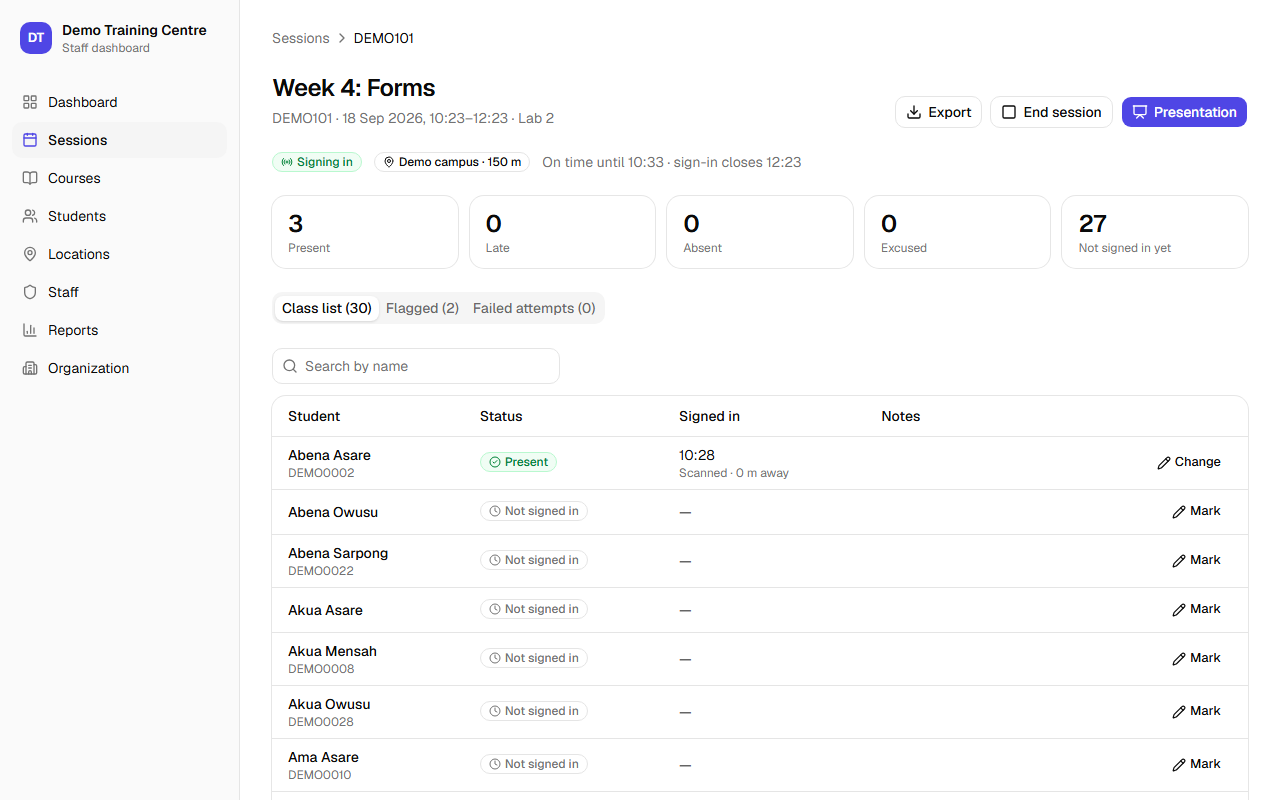
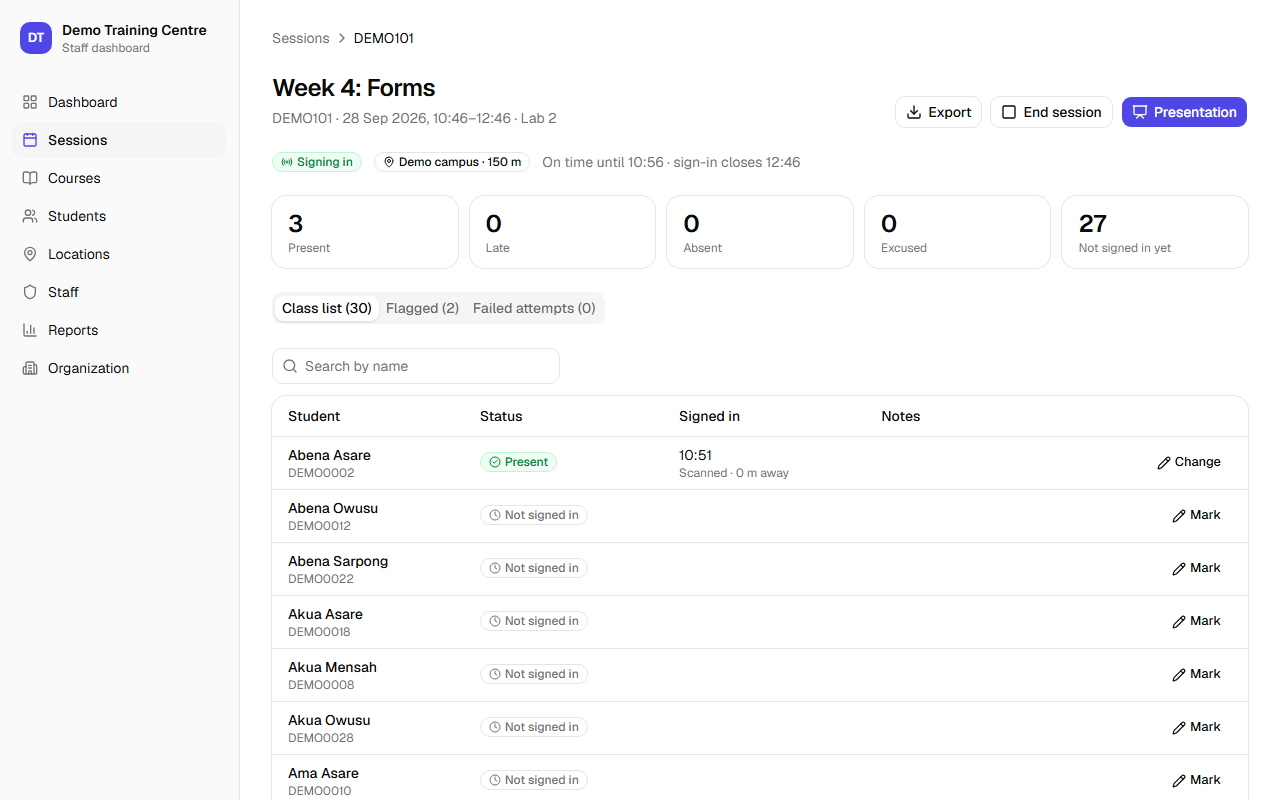
Show version 1.1 in the screenshots and the README
Six screenshots are retaken from the demo data: students now sign in with their student ID, and staff pages show every student's ID. The README describes signing in the same way, and gives today's test counts.

diff --git a/README.md b/README.md
@@ -2,9 +2,9 @@
 
 **Attendance for schools and training centres, taken with a QR code and the students' own phones.**
 
-A lecturer puts a QR code on the projector. Students scan it with their phone's camera, find their name and tap it, and they're marked present or late. A sign-in only counts from inside the class location, during the class, once per student and once per phone. No app to install and no student accounts.
+A lecturer puts a QR code on the projector. Students scan it with their phone's camera, type their student ID, check it's their name, and they're marked present or late. A sign-in only counts from inside the class location, during the class, once per student and once per phone. No app to install and no student accounts.
 
-I designed and built QR Attend end to end: requirements, design, backend, frontend, tests, packaging and documentation. Version 1.0 was released in September 2026. The source code is private. This repository shows what the product does and how it's built.
+I designed and built QR Attend end to end: requirements, design, backend, frontend, tests, packaging and documentation. Version 1.0 was released in September 2026, and version 1.1 followed the same month with changes from a pilot. The source code is private. This repository shows what the product does and how it's built.
 
 ![The staff dashboard](images/dashboard.png)
 
@@ -12,9 +12,9 @@ I designed and built QR Attend end to end: requirements, design, backend, fronte
 
 | In class | On a student's phone |
 |---|---|
-| ![The presentation screen, with the changing QR code, the 6-digit backup code and the latest sign-ins](images/presentation.png) | ![Finding your name](images/sign-in-phone.png) ![Signed in](images/signed-in-phone.png) |
+| ![The presentation screen, with the changing QR code, the 6-digit backup code and the latest sign-ins](images/presentation.png) | ![Checking a student ID on the sign-in page](images/sign-in-phone.png) ![Signed in](images/signed-in-phone.png) |
 
-- **For students:** scan, allow location, tap your name. A returning phone offers your name straight away. There's a 6-digit code for phones that can't scan, and clear screens explaining every refusal.
+- **For students:** scan, allow location, type your student ID and check the name that comes back. A returning phone offers your name straight away. There's a 6-digit code for phones that can't scan, and clear screens explaining every refusal.
 - **For lecturers:** courses and class lists imported from Excel, sessions with a location and a sign-in window, a full-screen presentation mode, and a review of anything suspicious after class.
 - **For admins:** staff and roles, locations on a map, reports with CSV and Excel export, organization settings and an audit log of every change.
 - **For each customer:** their own installation, name, logo, colour, time zone and locations. Nothing about one customer is built into the software.
@@ -31,8 +31,8 @@ sequenceDiagram
     participant S as Server
     P->>S: Scan: session + code from the QR
     S-->>P: Class details, and a ticket valid for 3 minutes
-    P->>S: Search the class list (as they type)
-    S-->>P: Up to 5 matching names, IDs partly hidden
+    P->>S: Check this student ID
+    S-->>P: The name for that ID on this class list, or "not on the list"
     P->>S: Sign in as this student, from here (GPS position)
     S->>S: Ticket, sign-in window, location, class list,<br/>one sign-in per student, one student per phone
     S-->>P: Present or Late, or exactly why not
@@ -40,7 +40,9 @@ sequenceDiagram
 
 ## Engineering highlights
 
-**A code that can't be shared.** The QR code changes every 30 seconds. It's an HMAC of the session and the current time window, so the server checks it without storing anything, and a photo sent to a friend at home soon stops working. Scanning swaps it for a signed ticket that lasts three minutes, so the code can change while a student finds their name.
+**A code that can't be shared.** The QR code changes every 30 seconds. It's an HMAC of the session and the current time window, so the server checks it without storing anything, and a photo sent to a friend at home soon stops working. Scanning swaps it for a signed ticket that lasts three minutes, so the code can change while a student types their ID.
+
+**No class list to browse.** A student types their own ID and the server answers with one name or nothing, so scanning the code never shows anyone a classmate's name. Each phone gets 20 checks a minute, which stops it working through the list.
 
 **Scan once, enforced by the database.** One sign-in per student per session and one student per phone per session are unique constraints in PostgreSQL, not just checks in code, so two taps in the same millisecond can't make two records. Phones are recognised by a device ID the server signs, kept in a cookie with a backup copy in the browser. A made-up ID is simply ignored.
 
@@ -48,13 +50,13 @@ sequenceDiagram
 
 **Flag, don't block.** No website can prove who is holding a phone, so things that look like a workaround are flagged for the lecturer instead of refused. That includes a brand-new browser identical to another phone on the same network, a phone that signed in someone else last time, or a student who added themselves. Each flag records its evidence at the moment it happened.
 
-**Imports without duplicates.** Students are recognised by student ID, then email, then phone number. An import shows a preview of new, matched, possibly duplicated and conflicting rows, and never overwrites an existing student.
+**Imports without duplicates.** Every row needs a student ID. Students are recognised by that ID, then email, then phone number. An import shows a preview of new, matched, possibly duplicated and conflicting rows, and never overwrites an existing student.
 
 ## Quality
 
 | | |
 |---|---|
-| Automated tests | 451: 360 backend, 80 frontend, 11 end-to-end |
+| Automated tests | 586: 433 backend, 141 frontend, 12 end-to-end |
 | Backend coverage | 95%, and over 90% everywhere a mistake costs a student their attendance |
 | End-to-end | Playwright runs a whole installation from an empty database: setup, a lecturer, an imported class, a live session, and phone-sized browsers with real GPS positions signing in, being refused 2 km away, and reusing a phone |
 | Security | A test calls every API route as an anonymous caller, so a new endpoint without permissions fails the build. Django's deployment checks run against the production settings, and a Content-Security-Policy is enforced and tested |
